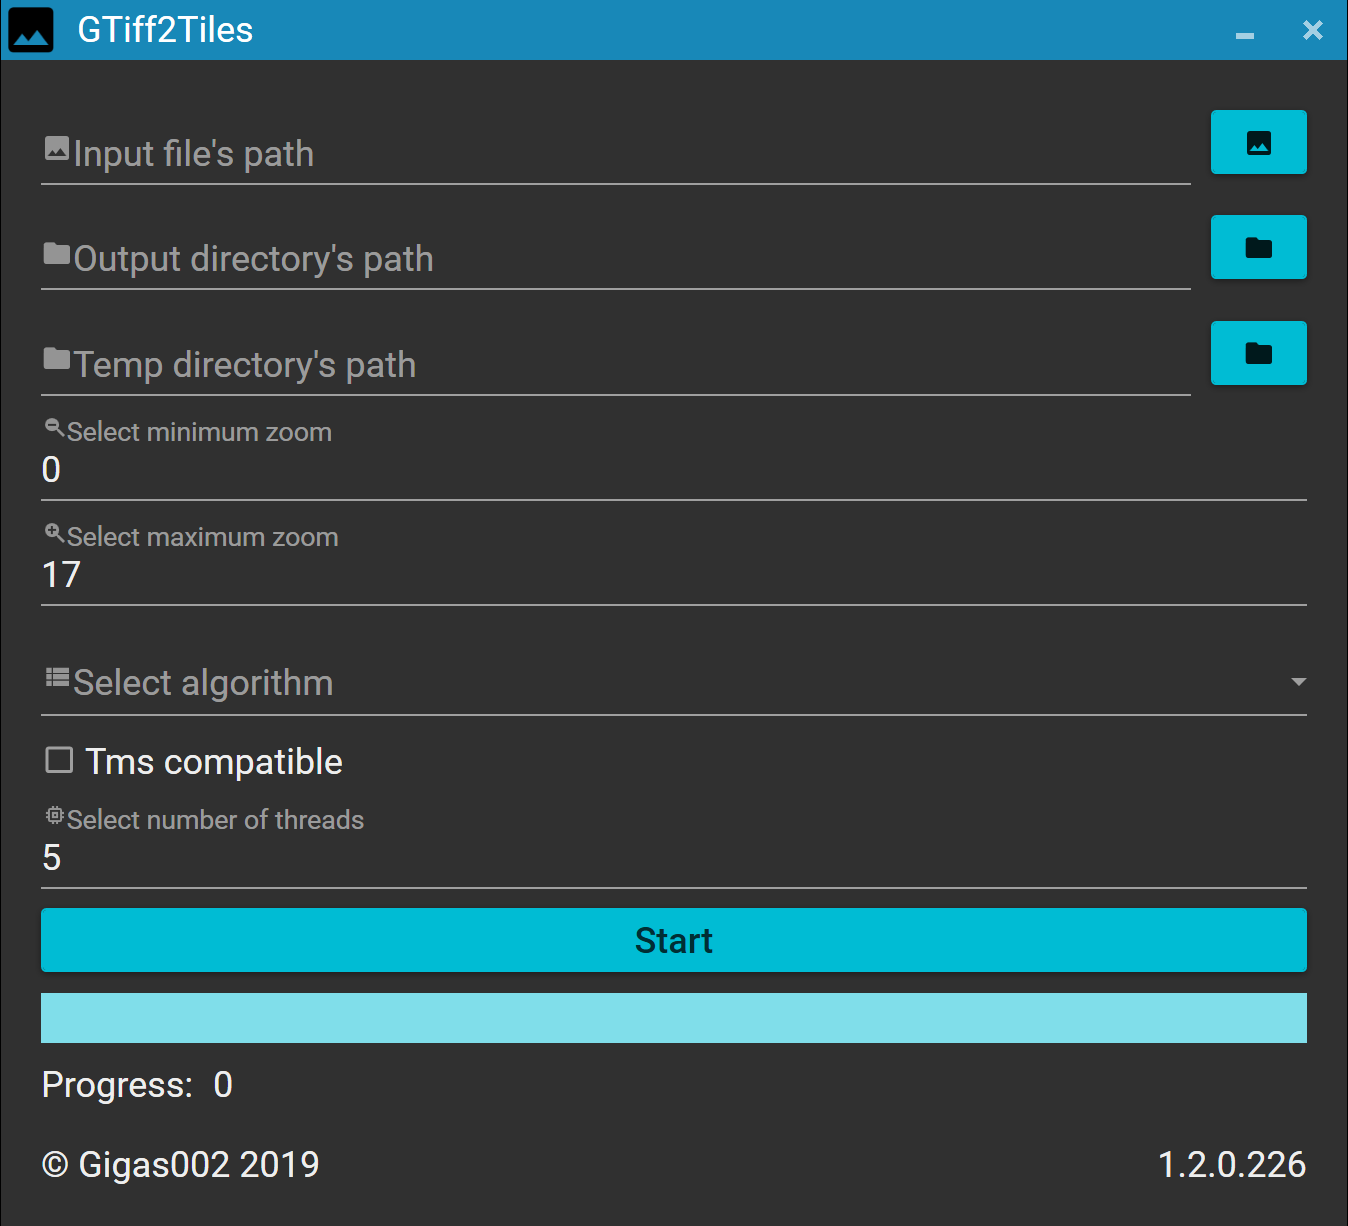
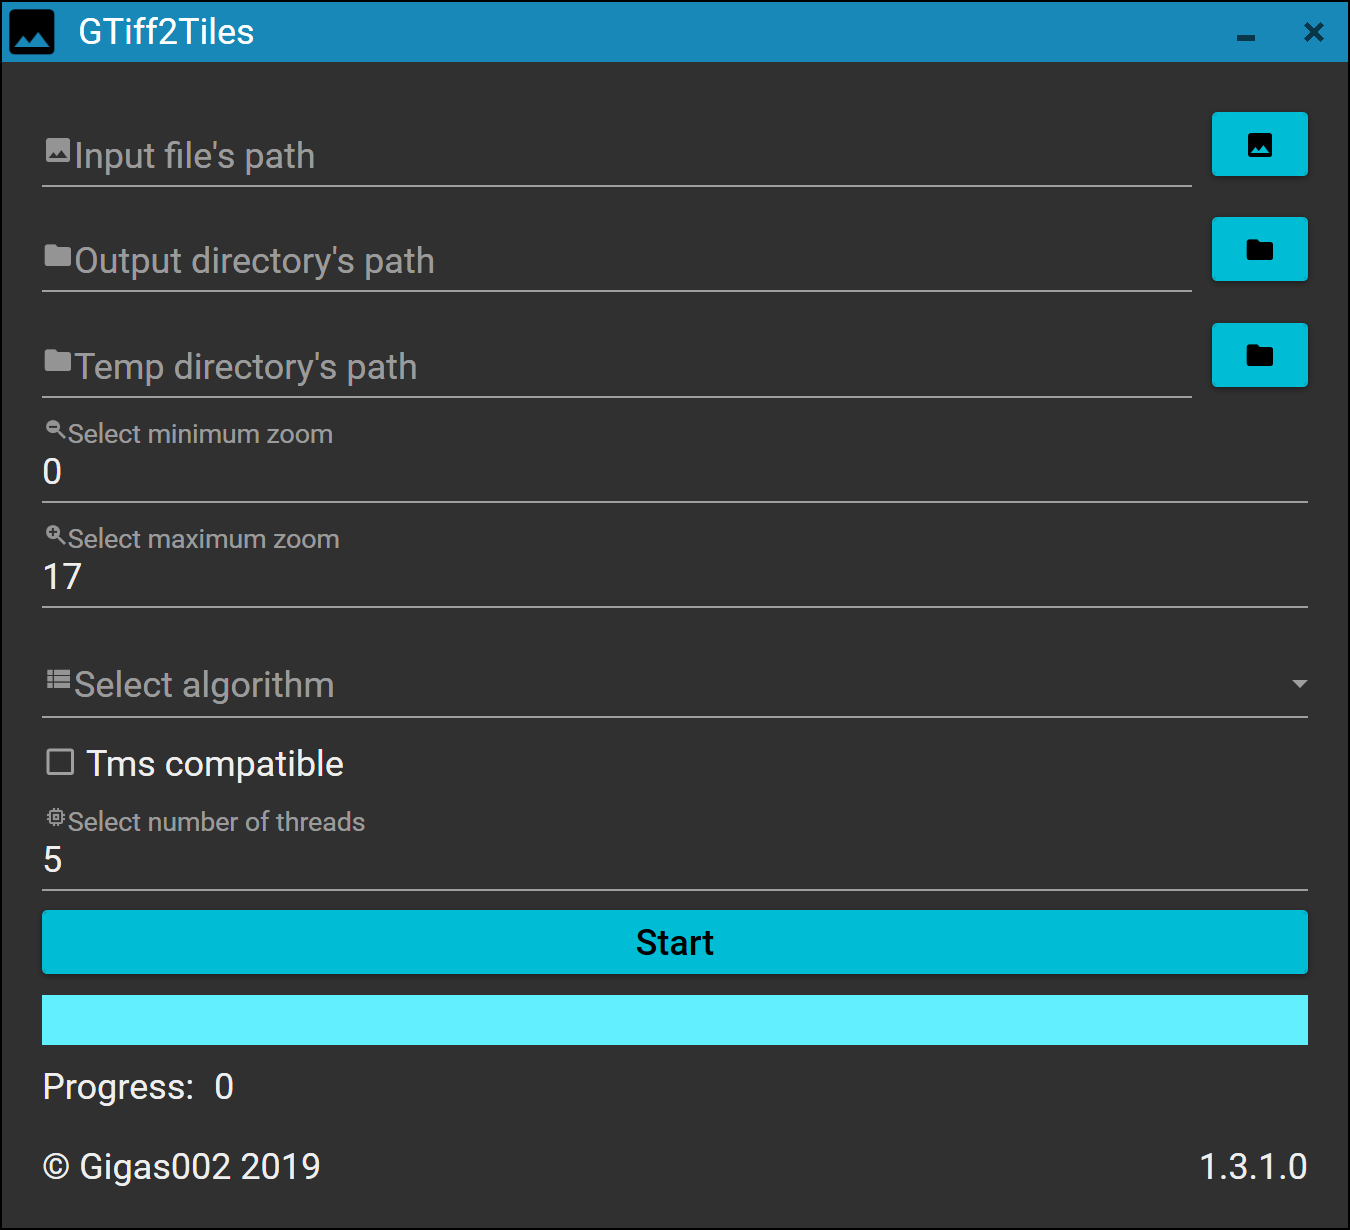
Release 1.3.1

diff --git a/GTiff2Tiles.Benchmarks/Properties/AssemblyInfo.cs b/GTiff2Tiles.Benchmarks/Properties/AssemblyInfo.cs
@@ -31,5 +31,5 @@ using System.Runtime.InteropServices;
 // You can specify all the values or you can default the Build and Revision Numbers
 // by using the '*' as shown below:
 // [assembly: AssemblyVersion("1.0.*")]
-[assembly: AssemblyVersion("1.3.0.0")]
-[assembly: AssemblyFileVersion("1.3.0.0")]
+[assembly: AssemblyVersion("1.3.1.0")]
+[assembly: AssemblyFileVersion("1.3.1.0")]

diff --git a/GTiff2Tiles.Console/Properties/AssemblyInfo.cs b/GTiff2Tiles.Console/Properties/AssemblyInfo.cs
@@ -31,5 +31,5 @@ using System.Runtime.InteropServices;
 // You can specify all the values or you can default the Build and Revision Numbers
 // by using the '*' as shown below:
 // [assembly: AssemblyVersion("1.0.*")]
-[assembly: AssemblyVersion("1.3.0.0")]
-[assembly: AssemblyFileVersion("1.3.0.0")]
+[assembly: AssemblyVersion("1.3.1.0")]
+[assembly: AssemblyFileVersion("1.3.1.0")]

diff --git a/GTiff2Tiles.Core/Properties/AssemblyInfo.cs b/GTiff2Tiles.Core/Properties/AssemblyInfo.cs
@@ -31,5 +31,5 @@ using System.Runtime.InteropServices;
 // You can specify all the values or you can default the Build and Revision Numbers
 // by using the '*' as shown below:
 // [assembly: AssemblyVersion("1.0.*")]
-[assembly: AssemblyVersion("1.3.0.0")]
-[assembly: AssemblyFileVersion("1.3.0.0")]
+[assembly: AssemblyVersion("1.3.1.0")]
+[assembly: AssemblyFileVersion("1.3.1.0")]

diff --git a/GTiff2Tiles.GUI/Properties/AssemblyInfo.cs b/GTiff2Tiles.GUI/Properties/AssemblyInfo.cs
@@ -49,5 +49,5 @@ using System.Windows;
 // You can specify all the values or you can default the Build and Revision Numbers
 // by using the '*' as shown below:
 // [assembly: AssemblyVersion("1.0.*")]
-[assembly: AssemblyVersion("1.3.0.0")]
-[assembly: AssemblyFileVersion("1.3.0.0")]
+[assembly: AssemblyVersion("1.3.1.0")]
+[assembly: AssemblyFileVersion("1.3.1.0")]

diff --git a/GTiff2Tiles.Tests/Properties/AssemblyInfo.cs b/GTiff2Tiles.Tests/Properties/AssemblyInfo.cs
@@ -14,5 +14,5 @@ using System.Runtime.InteropServices;
 
 [assembly: Guid("d395133d-7823-42fd-91a9-b52592e6c18a")]
 
-[assembly: AssemblyVersion("1.3.0.0")]
-[assembly: AssemblyFileVersion("1.3.0.0")]
+[assembly: AssemblyVersion("1.3.1.0")]
+[assembly: AssemblyFileVersion("1.3.1.0")]

diff --git a/README.md b/README.md
@@ -72,8 +72,8 @@ Library uses 2 different algorithms to create tiles:
 
 - [GDAL](https://www.nuget.org/packages/GDAL/) – 2.4.2;
 - [GDAL.Native](https://www.nuget.org/packages/GDAL.Native/) – 2.4.2;
-- [NetVips](https://www.nuget.org/packages/NetVips/) – 1.1.0-rc3;
-- [NetVips.Native.win-x64](https://www.nuget.org/packages/NetVips.Native.win-x64/) – 8.8.0;
+- [NetVips](https://www.nuget.org/packages/NetVips/) – 1.1.0;
+- [NetVips.Native.win-x64](https://www.nuget.org/packages/NetVips.Native.win-x64/) – 8.8.1;
 - [System.Threading.Tasks.Extensions](https://www.nuget.org/packages/System.Threading.Tasks.Extensions/) – 4.5.3;
 
 ### Localization

diff --git a/CHANGELOG.md b/CHANGELOG.md
@@ -1,3 +1,10 @@
+# 30.07.2019 – Released 1.3.1
+
+Changes since 1.3.1:
+
+- Updated **NetVips** to stable **1.1.0**;
+- Updated **NetVips.Native.win-x64** to 8.8.1;
+
 # 28.07.2019 – Released 1.3.0
 
 Changes since 1.2.0:
